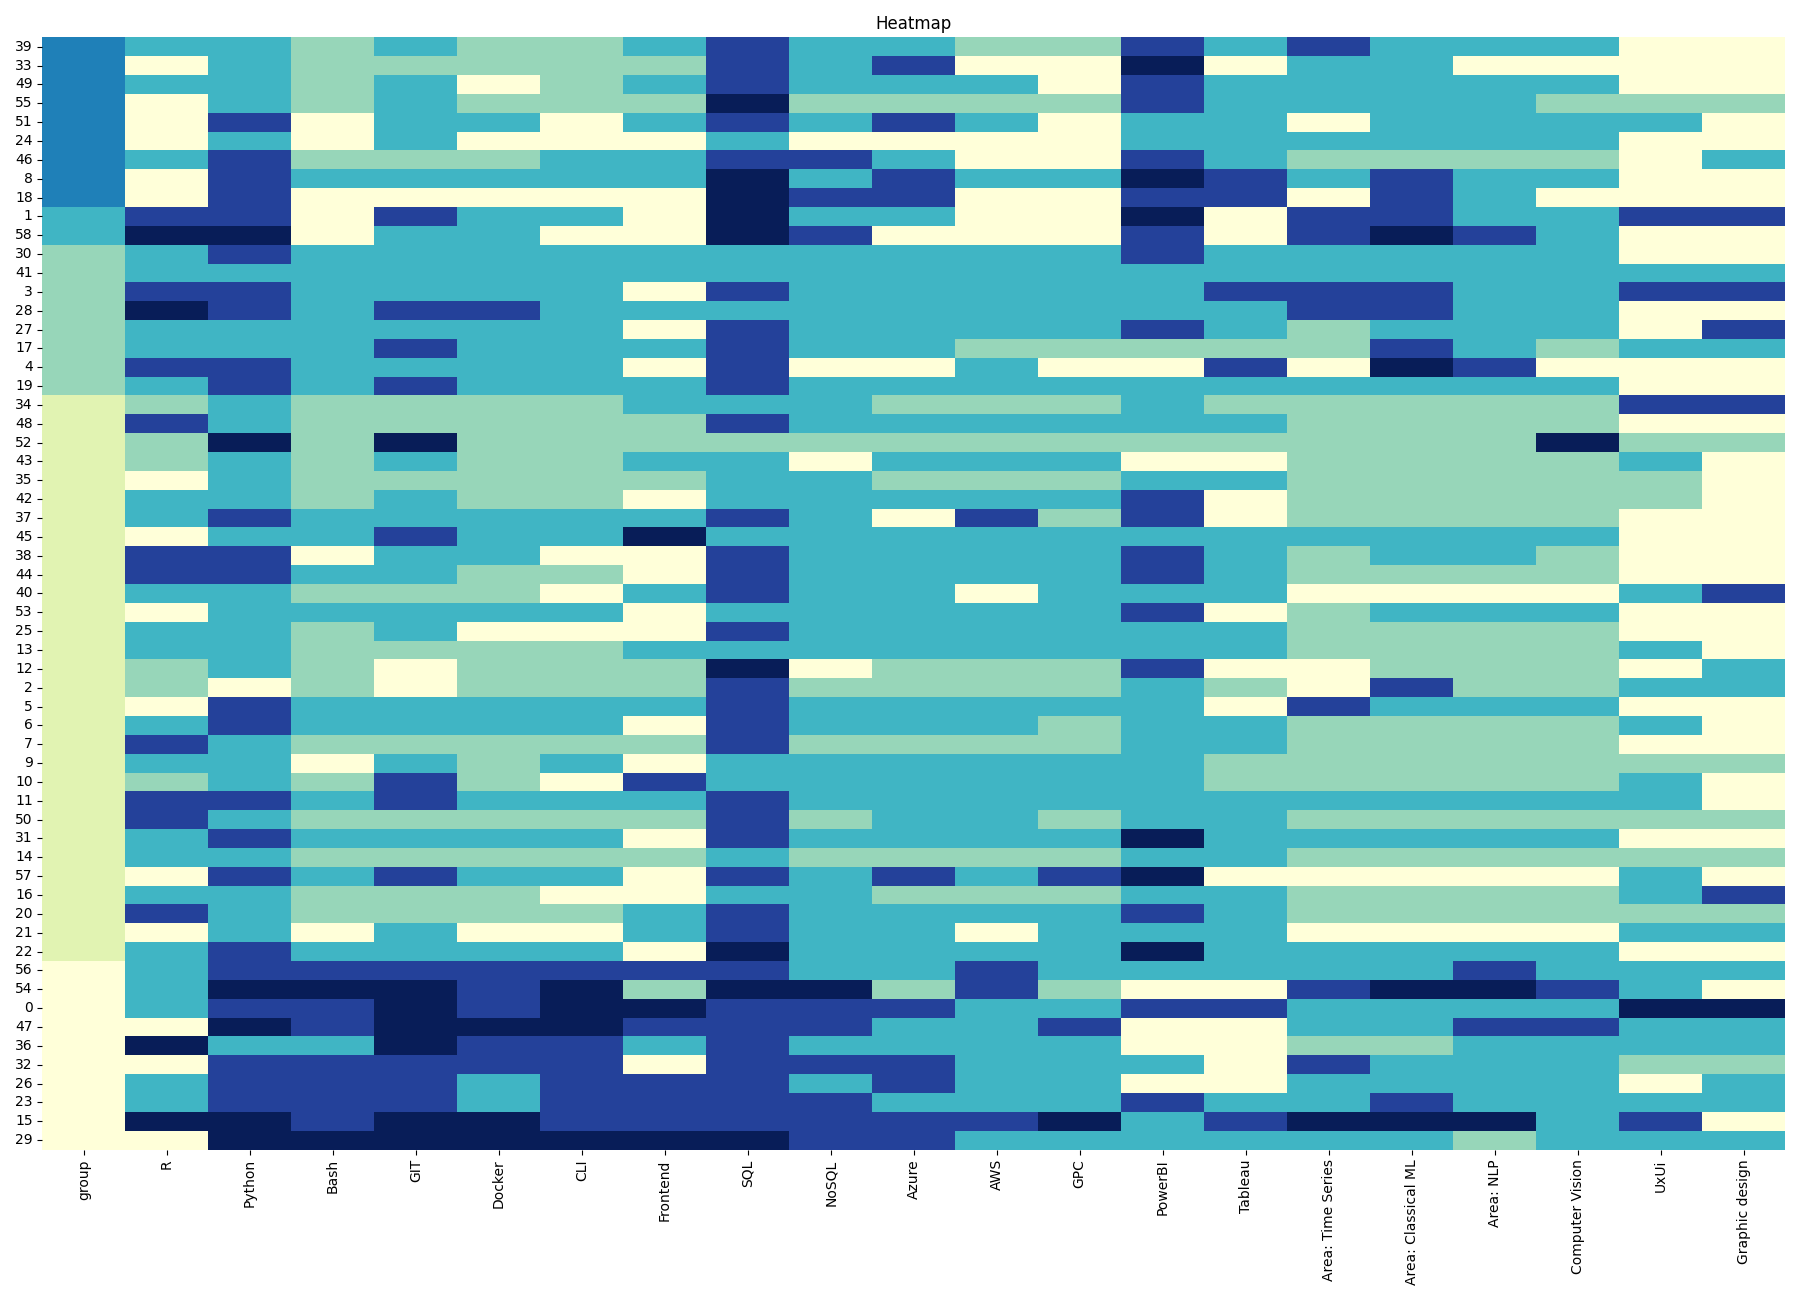
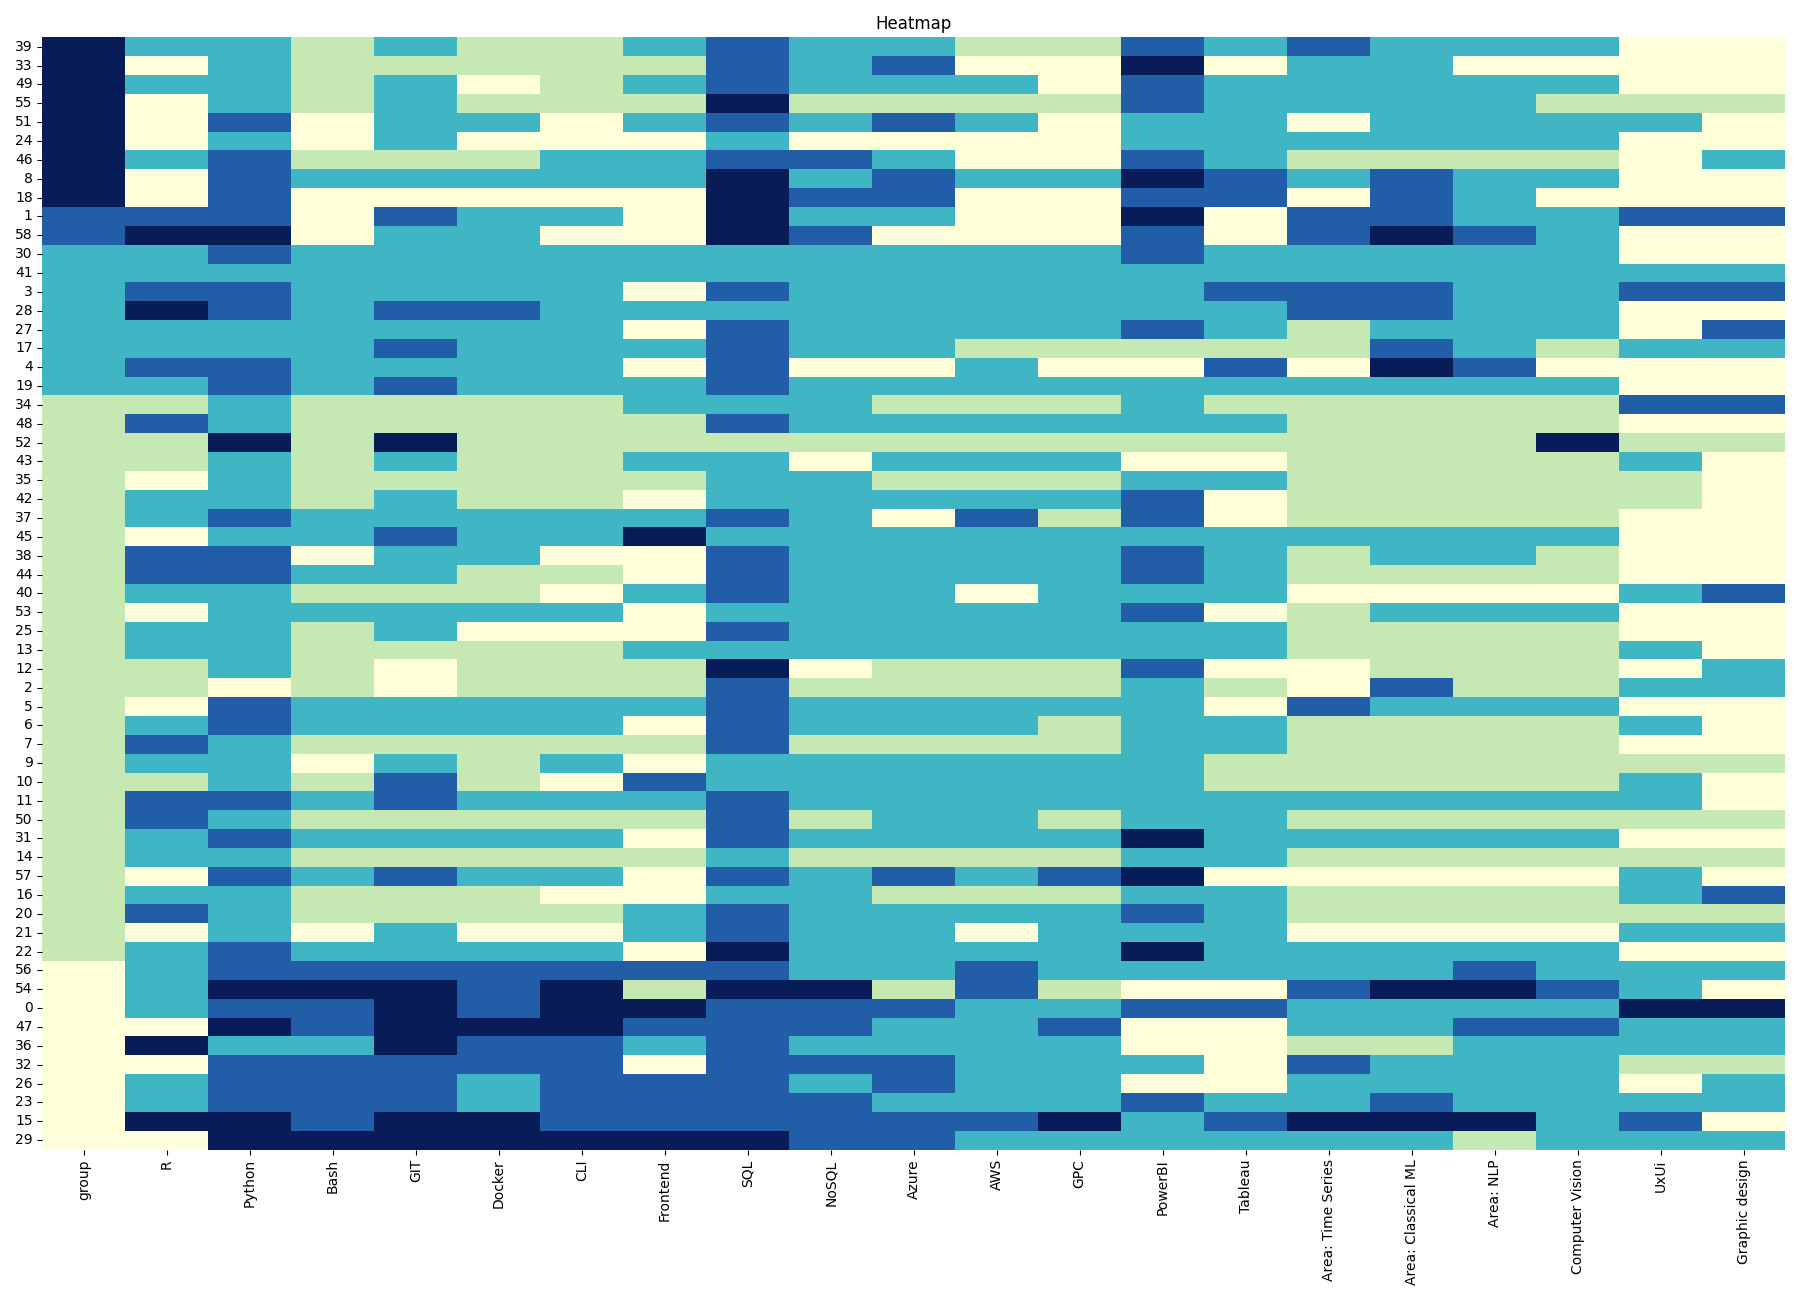
fix: reverse scaling for final clusters showcase

diff --git a/src/wait_people_analytics/pipelines/clustering/nodes.py b/src/wait_people_analytics/pipelines/clustering/nodes.py
@@ -26,12 +26,7 @@ def prepare_data_for_clustering(
         prepared dataframe
     """
     df = df[[*selected_columns]]
-    ids = df["ID"]
-    df = df.drop(columns="ID")
-    replaced = df.replace(clustering_skill_scaling)
-    replaced.insert(0, "ID", "")
-    replaced["ID"] = ids
-    return replaced
+    return _get_scaled_df(df, clustering_skill_scaling)
 
 
 def generate_hierarchical_clustering_visual(
@@ -45,6 +40,7 @@ def generate_hierarchical_clustering_visual(
     Args:
         df: dataframe
         hierarchical_params: params for hierarchical clustering (distance_threshold and n_clusters are overwritten)
+        color_threshold: chosen threshold for coloring clusters
     Returns:
         prepared dataframe
     """
@@ -86,6 +82,7 @@ def generate_hierarchical_clustering_visual(
 def generate_hierarchical_table(
     df: pd.DataFrame,
     hierarchical_params: dict[str, Any],
+    clustering_skill_scaling: dict[int, int],
 ) -> pd.DataFrame:
     """
     Group people with hierarchical clustering
@@ -93,6 +90,7 @@ def generate_hierarchical_table(
     Args:
         df: dataframe
         hierarchical_params: params for hierarchical clustering
+        clustering_skill_scaling: used to untranslate skill scaling
     Returns:
         dataframe with groups
     """
@@ -101,6 +99,12 @@ def generate_hierarchical_table(
 
     ac = AgglomerativeClustering(**hierarchical_params)
     clustering = ac.fit(df)
+
+    reverse_clustering_skill_scaling = {
+        value: key
+        for key, value in clustering_skill_scaling.items()
+    }
+    df_copy = _get_scaled_df(df_copy, reverse_clustering_skill_scaling)
 
     df_copy.insert(1, "group", "")
     df_copy["group"] = clustering.labels_
@@ -162,7 +166,8 @@ def generate_heatmap(
     clustering_skill_scaling: dict[int, int],
 ) -> Any:
     """
-    Generate heatmap to quickly distinguish groups
+    Generate heatmap to quickly distinguish groups.
+    This heatmap should not be used for business purposes
 
     Args:
         df: dataframe
@@ -182,3 +187,12 @@ def generate_heatmap(
     plt.title("Heatmap")
     plt.tight_layout()
     return plt
+
+
+def _get_scaled_df(df: pd.DataFrame, skill_scaling: dict[float, float]) -> pd.DataFrame:
+    ids = df["ID"]
+    df = df.drop(columns="ID")
+    replaced = df.replace(skill_scaling)
+    replaced.insert(0, "ID", "")
+    replaced["ID"] = ids
+    return replaced

diff --git a/src/wait_people_analytics/pipelines/clustering/pipeline.py b/src/wait_people_analytics/pipelines/clustering/pipeline.py
@@ -51,6 +51,7 @@ def _get_pipeline_template() -> Pipeline:
                 inputs=[
                     "scaled_skills_table",
                     "params:hierarchical_params",
+                    "params:clustering_skill_scaling",
                 ],
                 outputs="hierarchical_clustered_table",
             ),
